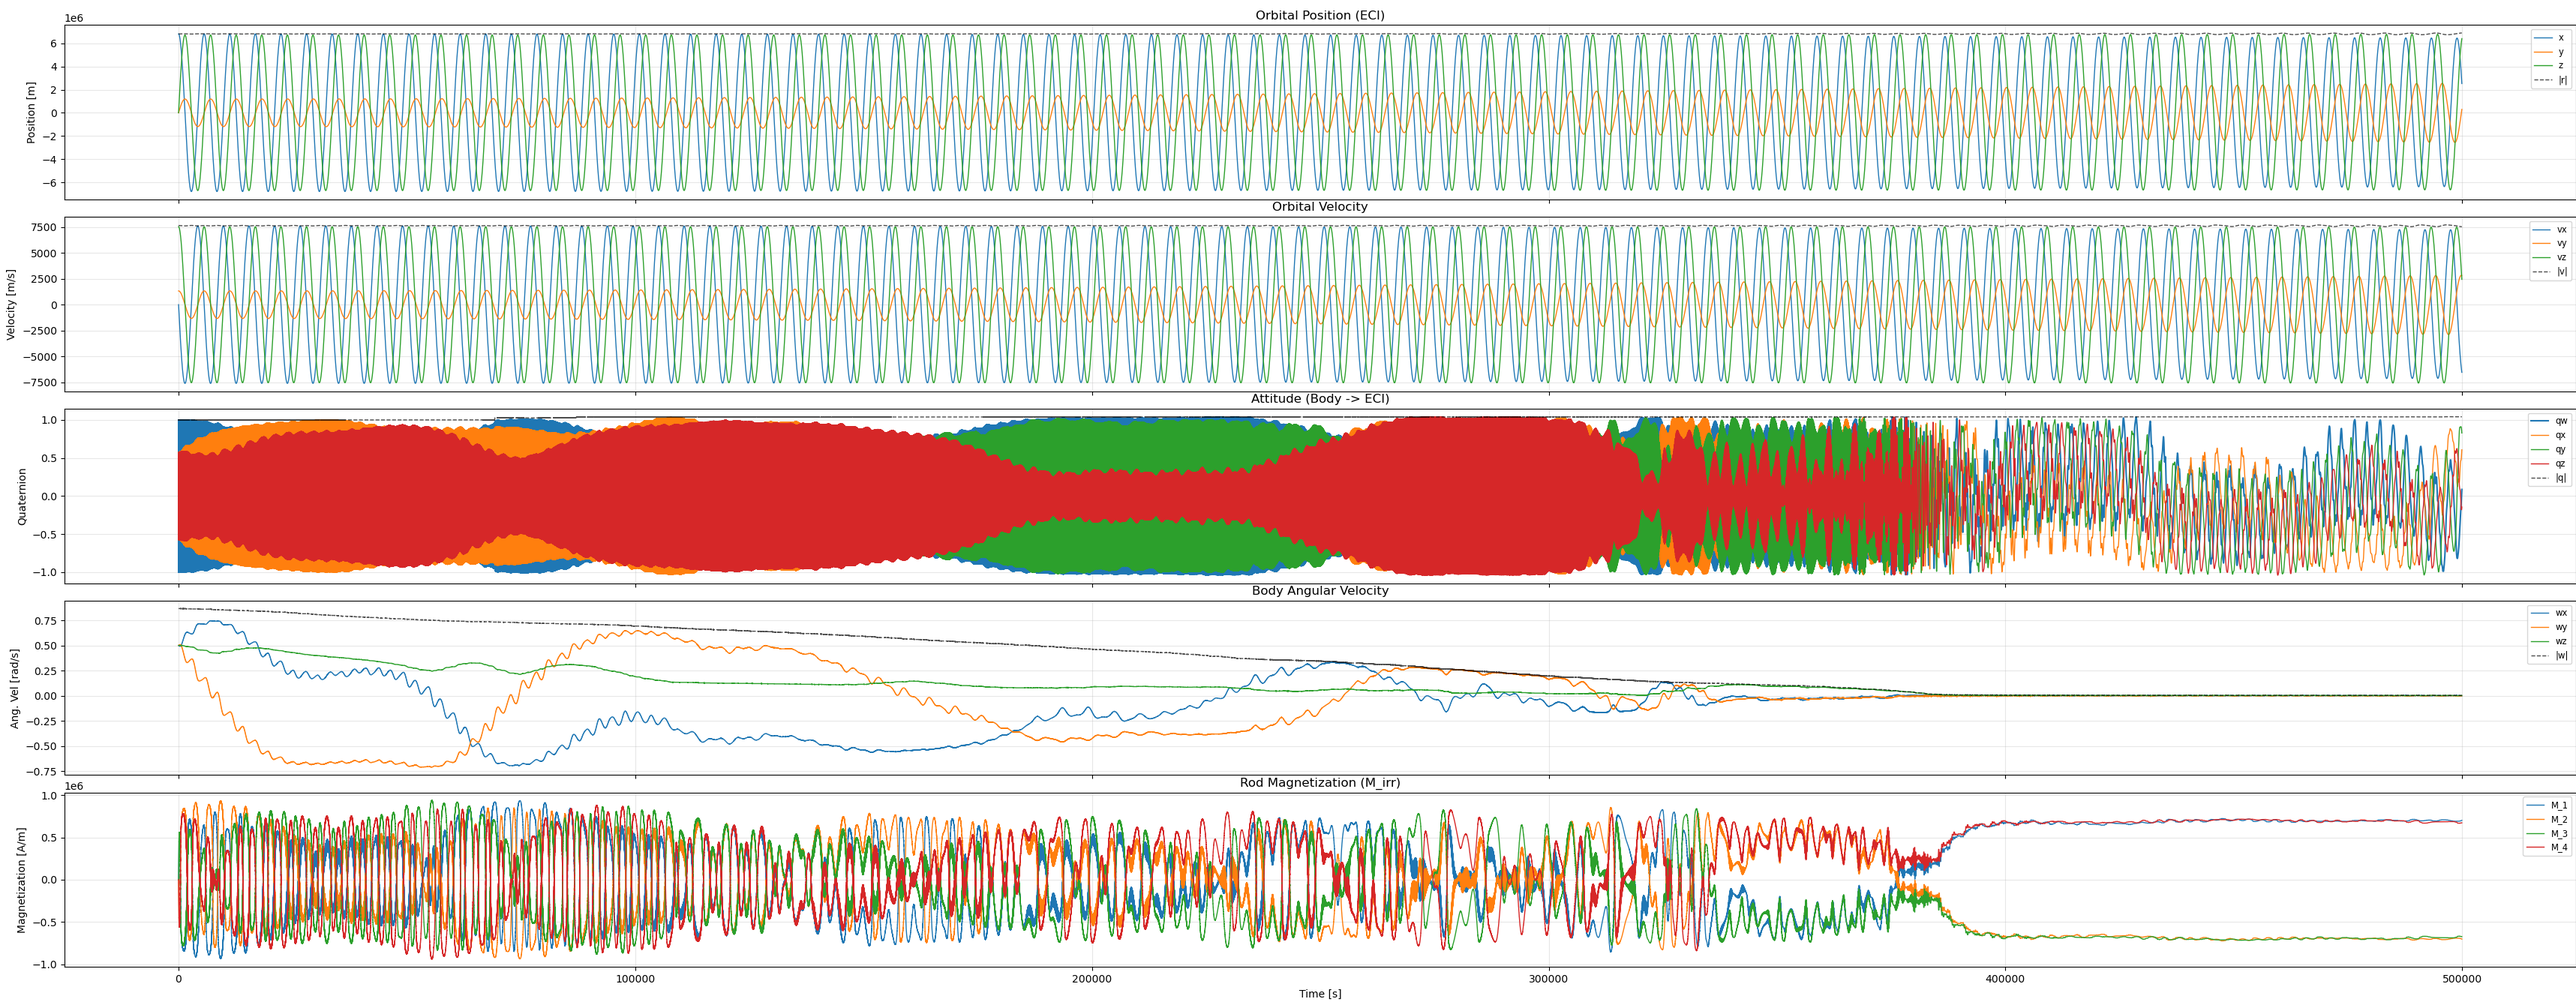
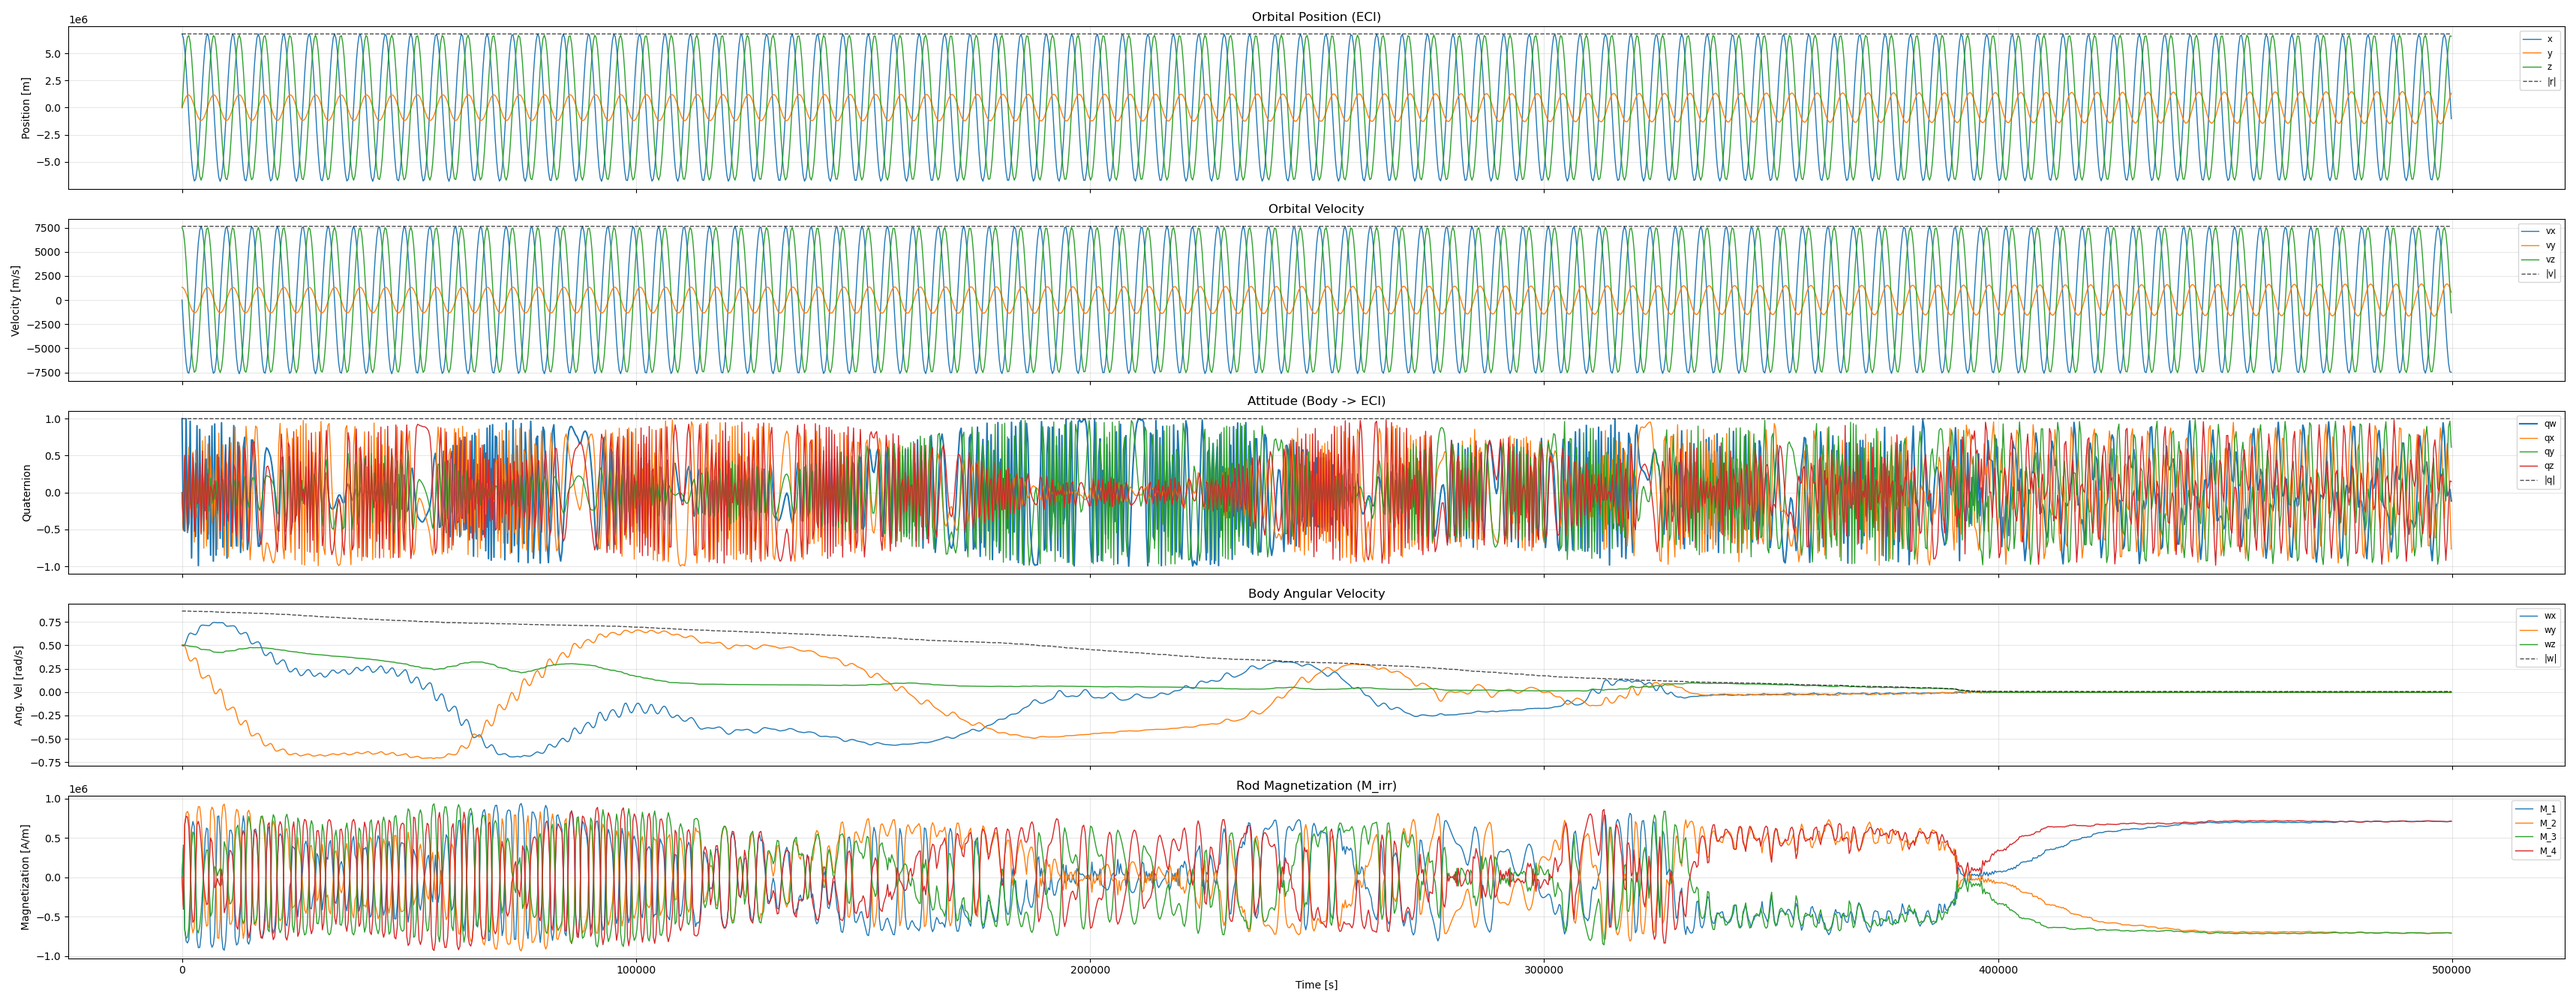
update results

diff --git a/README.md b/README.md
@@ -107,8 +107,8 @@ Generate a hysteresis loop curve to verify the physics model corresponds to the 
 ## Results
 
 ### Orbit Visualization
-A 7200-second validation of the orbital propagator using EGM2008 gravity (Degree 12).
-![Orbit Visualization](results/orbit_sim_7200s.png)
+Validation of the orbital propagator using EGM2008 gravity (Degree 12).
+![Orbit Visualization](results/orbit_sim_5e5.png)
 
 ### Detumbling Phase (First 2 Weeks)
 
